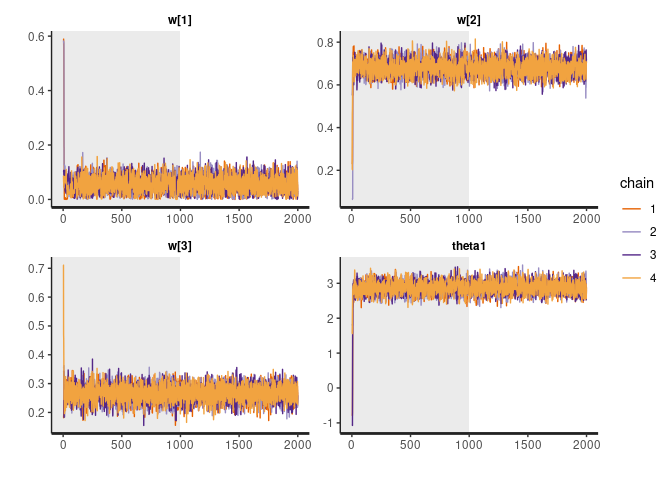
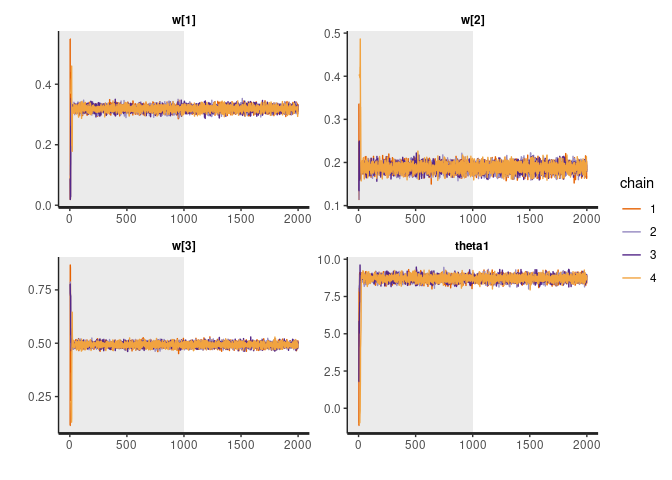
Add tests

diff --git a/README.md b/README.md
@@ -4,7 +4,6 @@
 # bws
 
 <!-- badges: start -->
-
 <!-- badges: end -->
 
 The goal of bws is to provide a user-friendly and efficient
@@ -27,7 +26,6 @@ devtools::install_github("phuchonguyen/bws")
 This is a basic example which shows you how to fit BWS:
 
 ``` r
-library(bws)
 ## We first need to simulate some data
 set.seed(123)
 N <- 100
@@ -35,22 +33,24 @@ P <- 3
 K <- 2
 X <- matrix(rnorm(N*P), N, P)
 Z <- matrix(rnorm(N*K), N, K)  # confounders
-w <- gtools::rdirichlet(1, rep(1, P))
+w <- c(0.3, 0.2, 0.5)
 theta0 <- 2
 theta1 <- 3
 beta <- runif(K, 0.5, 1.5)
-y <- theta0 + theta1*tcrossprod(X, w) + Z%*%beta + rnorm(N)
-y <- as.vector(y)
+y <- theta0 + theta1*theta1*(X%*%w) + Z%*%beta + rnorm(N)
 ## Fitting BWS is simple
 fit <- bws::bws(iter = 2000, y = y, X = X, Z = Z,
          # additional arguments for rstan::sampling
          chains = 4, cores = 2, show_messages = FALSE)
+#> Warning: replacing previous import 'lifecycle::last_warnings' by
+#> 'rlang::last_warnings' when loading 'tibble'
+#> Warning: replacing previous import 'lifecycle::last_warnings' by
+#> 'rlang::last_warnings' when loading 'pillar'
 ```
 
 Since the implementation uses Stan and returns an `rstanfit` object,
 users can enjoy all the functionalities provided in `rstan` to analyze
-the fitted
-model:
+the fitted model:
 
 ``` r
 rstan::traceplot(fit, pars = c("w", "theta1"), inc_warmup = TRUE, nrow = 2)
@@ -65,12 +65,12 @@ print(fit, pars = c("w", "theta1"))
 #> post-warmup draws per chain=1000, total post-warmup draws=4000.
 #> 
 #>        mean se_mean   sd 2.5%  25%  50%  75% 97.5% n_eff Rhat
-#> w[1]   0.05       0 0.03 0.00 0.03 0.05 0.07  0.12  2010    1
-#> w[2]   0.68       0 0.04 0.61 0.66 0.68 0.70  0.75  2401    1
-#> w[3]   0.27       0 0.03 0.21 0.25 0.27 0.28  0.32  3361    1
-#> theta1 2.88       0 0.18 2.55 2.76 2.88 3.00  3.24  2038    1
+#> w[1]   0.32       0 0.01 0.30 0.31 0.32 0.33  0.34  5292    1
+#> w[2]   0.19       0 0.01 0.17 0.18 0.19 0.19  0.21  5750    1
+#> w[3]   0.49       0 0.01 0.47 0.49 0.49 0.50  0.51  6125    1
+#> theta1 8.71       0 0.19 8.34 8.59 8.71 8.84  9.08  5388    1
 #> 
-#> Samples were drawn using NUTS(diag_e) at Wed Sep 22 00:33:37 2021.
+#> Samples were drawn using NUTS(diag_e) at Sat Jun 11 17:51:41 2022.
 #> For each parameter, n_eff is a crude measure of effective sample size,
 #> and Rhat is the potential scale reduction factor on split chains (at 
 #> convergence, Rhat=1).
@@ -81,8 +81,8 @@ rstan::plot(fit)
 
 <img src="man/figures/README-unnamed-chunk-2-2.png" width="100%" />
 
-The model inferred the correct weights, which are set to 0.08, 0.71,
-0.22 in the simulation.
+The model inferred the correct weights, which are set to 0.3, 0.2, 0.5
+in the simulation.
 
 ## Reference:
 
